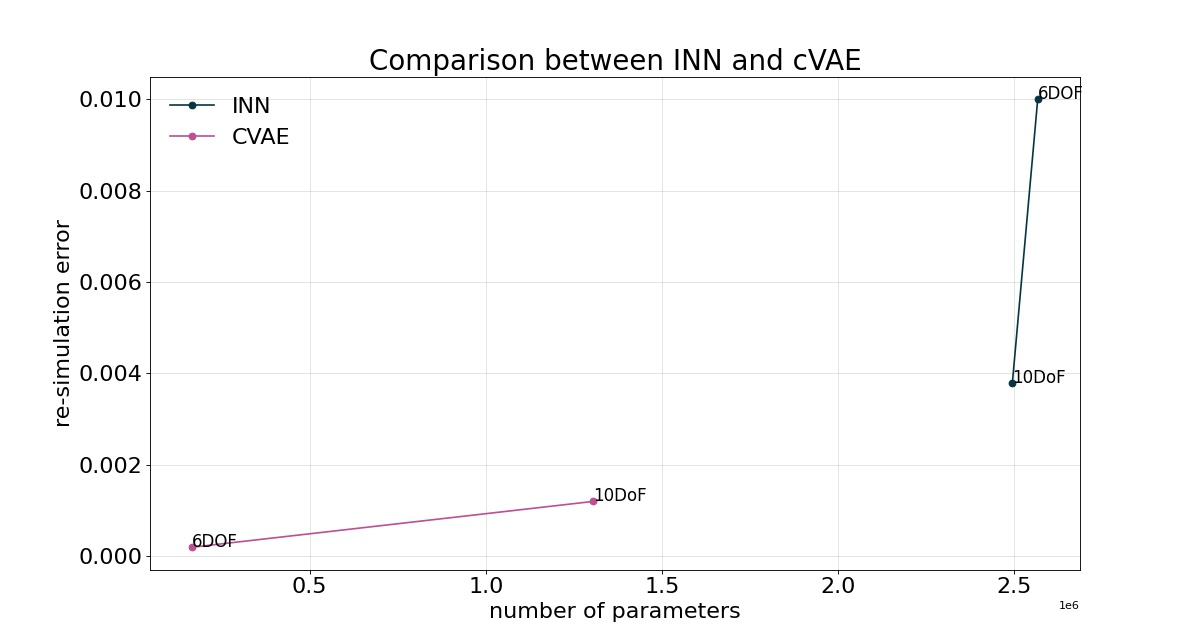
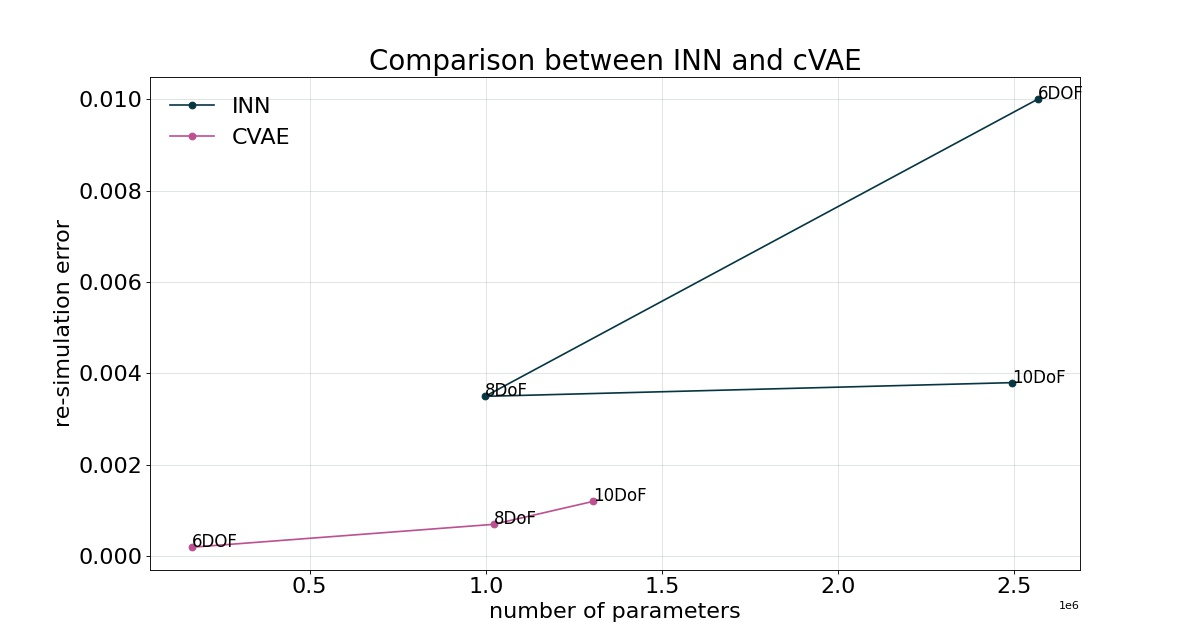
results updated

diff --git a/src/visualize_results.py b/src/visualize_results.py
@@ -35,25 +35,25 @@ if __name__ == '__main__':
 
     # INN: # of parameters
     # dummy values for now
-    params_INN = [2566284, 2494380]
+    params_INN = [2566284, 997884, 2494380]
 
     # INN: e_posterior
     # dummy values for now
-    e_posterior_INN = [0.0428, 0.0447]
-    e_resim_INN = [0.0100, 0.0038]
+    e_posterior_INN = [0.0428, 0.0429, 0.0447]
+    e_resim_INN = [0.0100, 0.0035, 0.0038]
 
     # CVAE: # of parameters
     # dummy values for now
-    params_CVAE = [166814, 1303226]
+    params_CVAE = [166814, 1022020, 1303226]
 
     # CVAE: e_posterior
     # dummy values for now
-    e_posterior_CVAE = [0.0449, 0.0528]
-    e_resim_CVAE = [0.0002, 0.0012]
+    e_posterior_CVAE = [0.0449, 0.0494, 0.0528]
+    e_resim_CVAE = [0.0002, 0.0007, 0.0012]
 
     # annotations
-    annotations_cVAE = ['6DOF', '10DoF']
-    annotations_INN = ['6DOF', '10DoF']
+    annotations_cVAE = ['6DOF', '8DoF', '10DoF']
+    annotations_INN = ['6DOF', '8DoF', '10DoF']
 
     ####################################################################################################################
 
